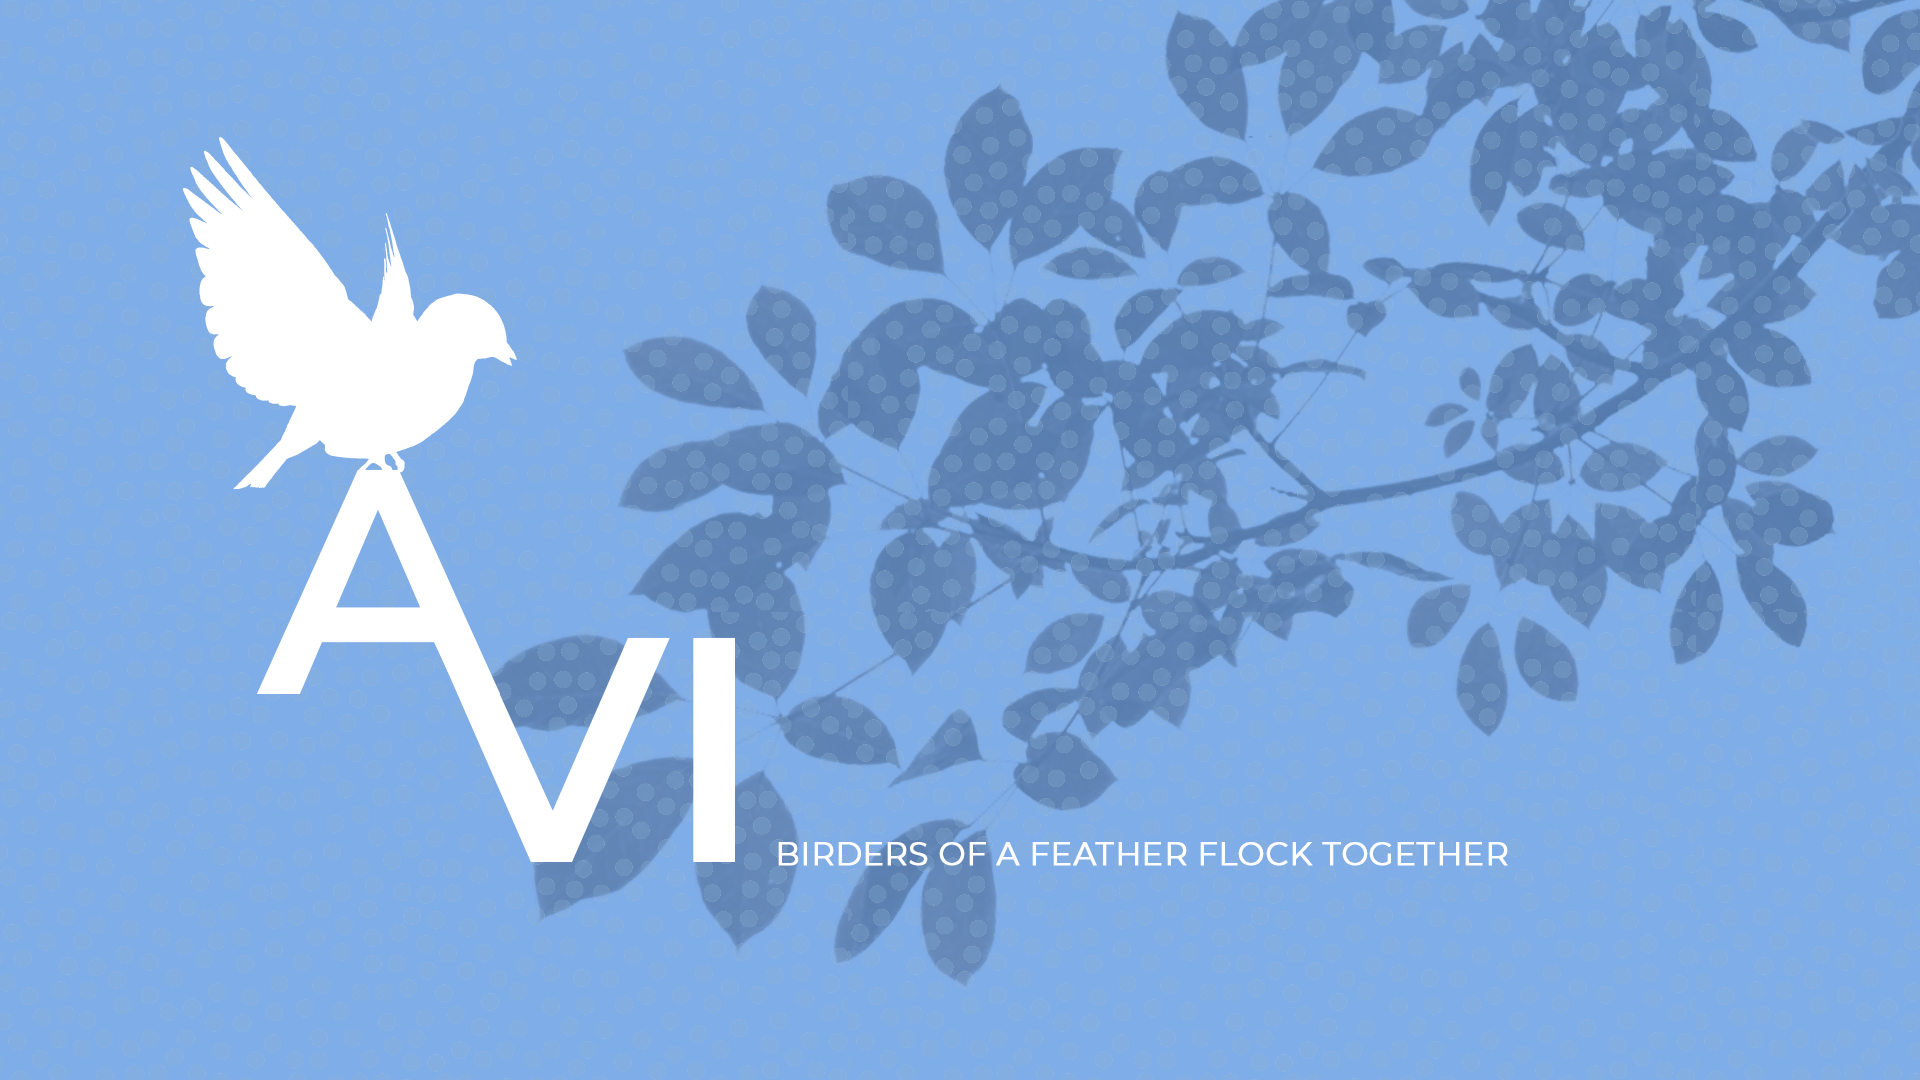
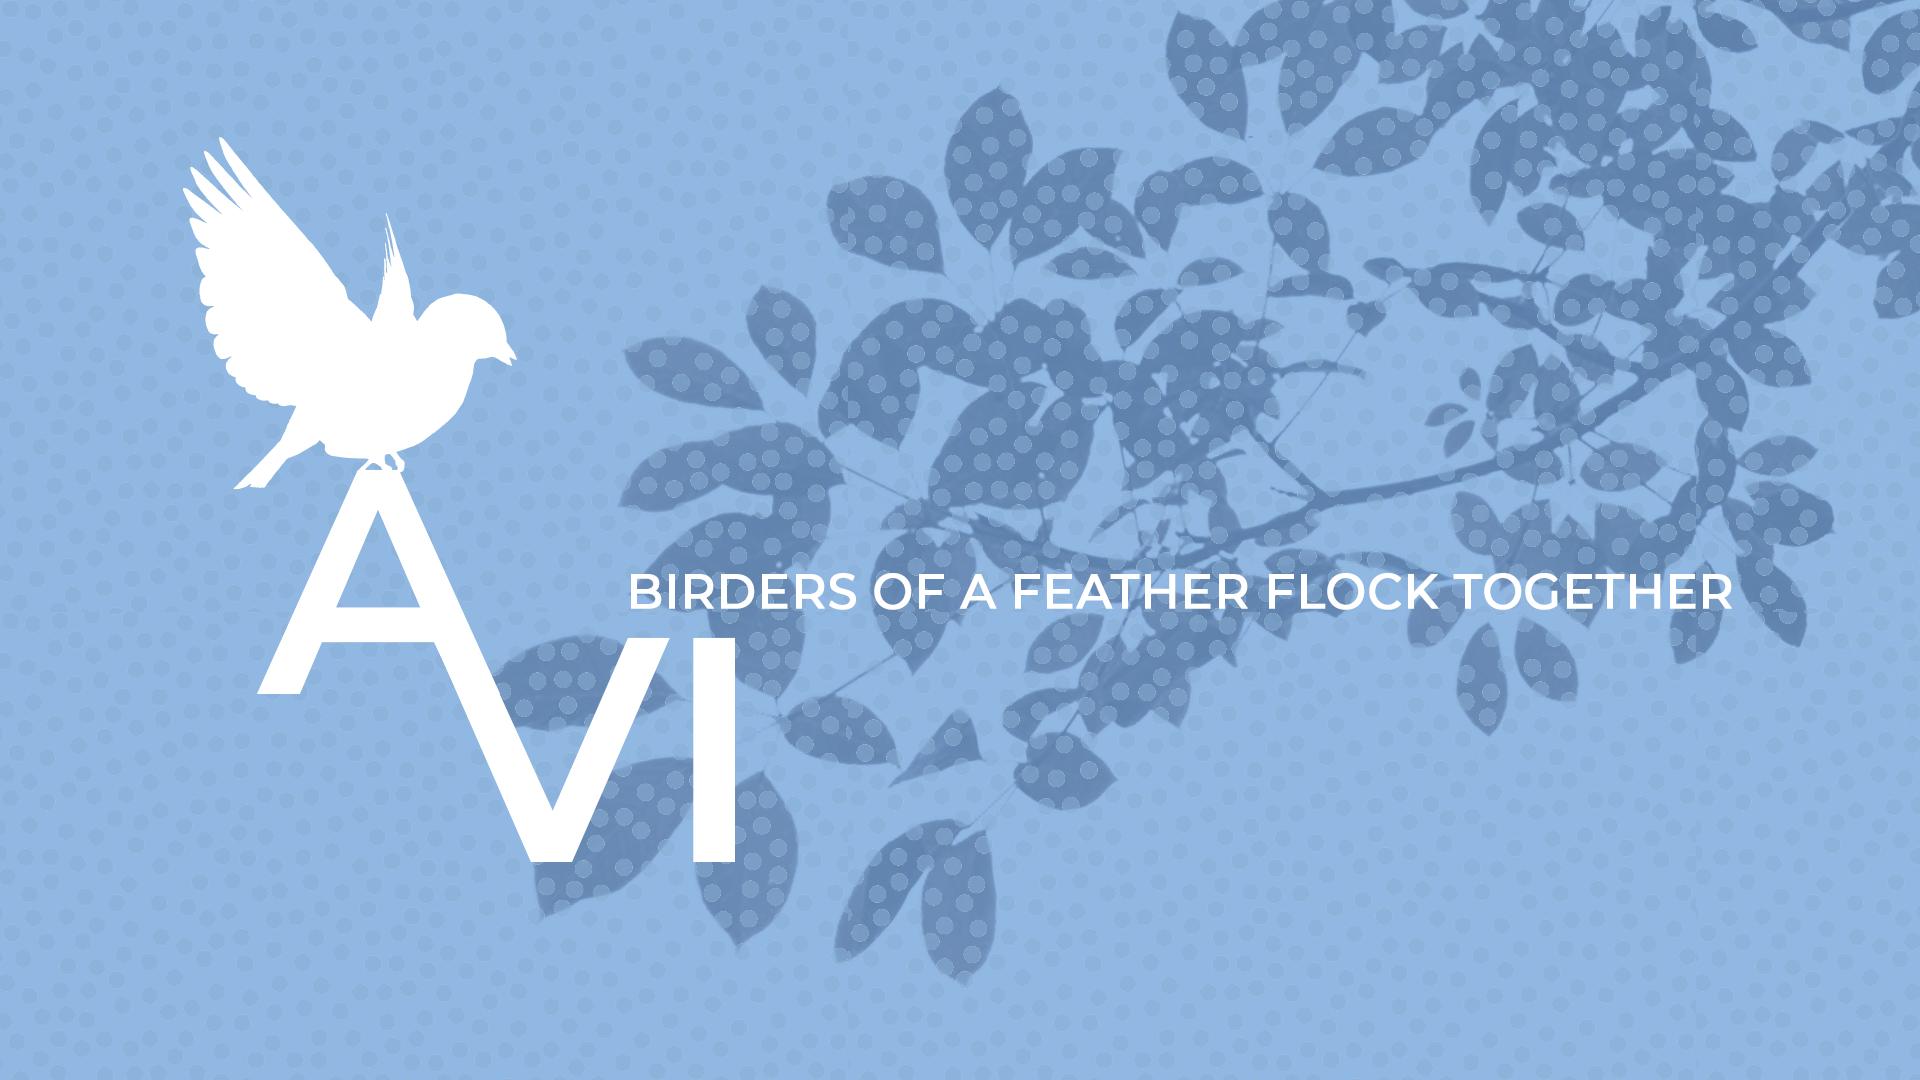
style landing and nav

Changed region(s): [[0.3125, 0.5194, 0.9062, 0.5806], [0.4062, 0.7639, 0.7812, 0.825]]

diff --git a/src/components/NavBar/NavBar.jsx b/src/components/NavBar/NavBar.jsx
@@ -14,11 +14,11 @@ const NavBar = ({ user, handleLogout}) => {
     console.log(user),
     <ul>
       <h2>Welcome, {user ? user.name : 'Birder'}</h2>
-      <li><NavLink to="/profiles">Profiles</NavLink></li>
-      <li><NavLink to="/birds">Birds</NavLink></li>
-      <li><NavLink to="/supplylists">Supply Lists</NavLink></li>
-      <li><NavLink to="/events">Events</NavLink></li>
-      <li><NavLink to="/questions">Questions</NavLink></li>
+      <li><NavLink to="/profiles">BIRDERS</NavLink></li>
+      <li><NavLink to="/birds">BIRDS</NavLink></li>
+      <li><NavLink to="/supplylists">SUPPLY LISTS</NavLink></li>
+      <li><NavLink to="/events">EVENTS</NavLink></li>
+      <li><NavLink to="/questions">FIELD NOTES</NavLink></li>
       <li><NavLink to="" onClick={handleLogout}>LOG OUT</NavLink></li>
       {/* <li><NavLink to="/changePassword">Change Password</NavLink></li> */}
       {/* {user ? 

diff --git a/src/components/NavBar/NavBar.module.css b/src/components/NavBar/NavBar.module.css
@@ -7,8 +7,7 @@
   position: fixed; 
   padding: 14px 21px;
   align-items: center;
-  background: white;
-  border-bottom: 1px solid rgb(200, 200, 200);
+  background-color:  rgb(99, 124, 164);
 }
 
 .container img {
@@ -20,14 +19,28 @@
   width: 100%;
   display: flex;
   list-style: none;
-  font-weight: bold;
+  font-weight: 500;
+  font-size: 18px;;
   align-items: center;
-  justify-content: flex-end;
+  justify-content: center;
+  font-family: 'Montserrat', sans-serif;
+  color: white;
+  text-decoration: none;
 }
 
 .container li {
   margin-left: 35px;
   text-align: right;
+}
+
+a {
+  font-family: 'Montserrat', sans-serif;
+  color: white;
+  text-decoration: none;
+  margin: 0 10px;
+}
+a:hover {
+  color: rgb(87, 74, 226);
 }
 
 @media only screen and (max-width: 414px) {

diff --git a/src/pages/Landing/Landing.module.css b/src/pages/Landing/Landing.module.css
@@ -2,4 +2,17 @@
   display: flex;
   align-items: center;
   flex-direction: column;
+  background-image: url('../../assets/branding/AVI-landing.png');
+  background-size: cover;
+  height: 100vh;
+  width: 100vw;
 }
+
+h1 {
+  color: white;
+  font-family: 'Montserrat', sans-serif;
+  position: relative;
+  /* overflow: hidden; */
+  margin: 400px 0 0 400px;
+}
+/* import ProfileIcon from '../../assets/branding/profile.png' */

diff --git a/src/pages/Landing/Landing.jsx b/src/pages/Landing/Landing.jsx
@@ -3,7 +3,6 @@ import styles from './Landing.module.css'
 const Landing = ({ user }) => {
   return (
     <main className={styles.container}>
-      <h1>hello, {user ? user.name : 'friend'}</h1>
     </main>
   )
 }

diff --git a/src/App.css b/src/App.css
@@ -1,4 +1,4 @@
 body {
-  padding: 100px 0 0 0;
-  font:'Courier Prime', monospace;
+  padding: 80px 0 0 0;
+  font-family:'Courier Prime', monospace;
 }
